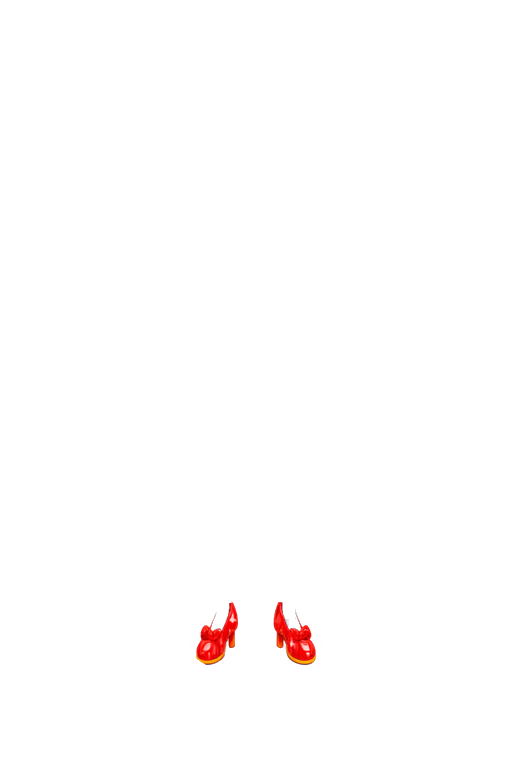
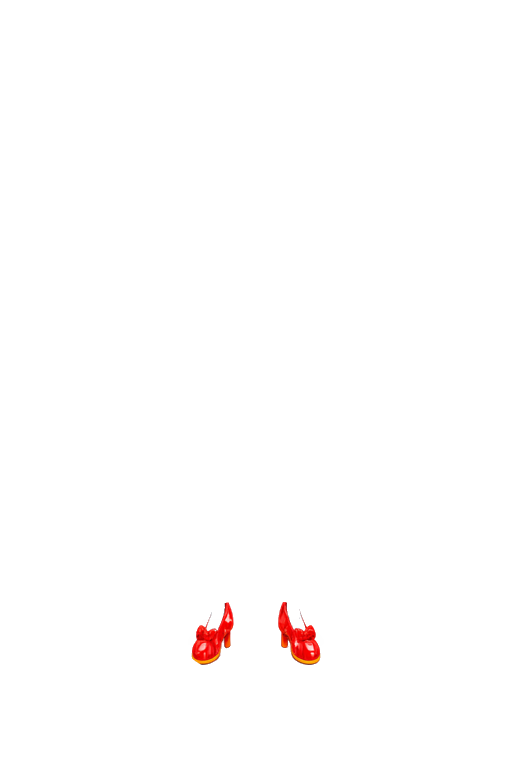
Opdater prøv-udgaven: skoene tilpasset fødderne

Changed region(s): [[0.5312, 0.7812, 0.625, 0.875], [0.375, 0.7812, 0.4688, 0.875]]

diff --git a/precache-manifest.js b/precache-manifest.js
@@ -1,2 +1,2 @@
-self.MINIMIG_VERSION = 'F862A0FE1EE25016';
+self.MINIMIG_VERSION = '8C882A4811AF37CB';
 self.MINIMIG_FILES = ["billeder/figur.png","billeder/ikon-180.png","billeder/ikon-192.png","billeder/ikon-512.png","index.html","manifest.webmanifest","privatliv/index.html","proev/baggrund/dansesal.jpg","proev/baggrund/fodboldbane.jpg","proev/baggrund/gymnastiksal.jpg","proev/baggrund/havbund.jpg","proev/baggrund/have.jpg","proev/baggrund/ridderborg.jpg","proev/baggrund/rummet.jpg","proev/baggrund/skov.jpg","proev/baggrund/slikland.jpg","proev/baggrund/slot.jpg","proev/baggrund/strand.jpg","proev/baggrund/vinter.jpg","proev/dele/briller-firkant.png","proev/dele/briller-hjerte.png","proev/dele/briller-runde.png","proev/dele/briller-ski.png","proev/dele/briller-sol.png","proev/dele/briller-stjerne.png","proev/dele/bryn-hoeje.png","proev/dele/bryn-ingen.png","proev/dele/bryn-sure.png","proev/dele/bryn-triste.png","proev/dele/bryn-tykke.png","proev/dele/bryn-tynde.png","proev/dele/bukser-fodbold.png","proev/dele/bukser-lange.png","proev/dele/grund.png","proev/dele/grund-dans.png","proev/dele/grund-hofter.png","proev/dele/grund-hurra.png","proev/dele/grund-vink.png","proev/dele/hand-ballon.png","proev/dele/hand-bamse.png","proev/dele/hand-blomst.png","proev/dele/hand-bold.png","proev/dele/hand-is.png","proev/dele/hand-tryllestav.png","proev/dele/hat-blomst.png","proev/dele/hat-enhjoerning.png","proev/dele/hat-festhat.png","proev/dele/hat-hovedtelefoner.png","proev/dele/hat-kaninoerer.png","proev/dele/hat-kasket.png","proev/dele/hat-krone.png","proev/dele/hat-sloejfe.png","proev/dele/hat-tiara.png","proev/dele/haar-bob.png","proev/dele/haar-fletninger.png","proev/dele/haar-kort.png","proev/dele/haar-kroeller.png","proev/dele/kjole-fest.png","proev/dele/kjole-fest-dans.png","proev/dele/kjole-fest-hofter.png","proev/dele/kjole-fest-hurra.png","proev/dele/kjole-fest-vink.png","proev/dele/kjole-galla.png","proev/dele/kjole-galla-dans.png","proev/dele/kjole-galla-hofter.png","proev/dele/kjole-galla-hurra.png","proev/dele/kjole-galla-vink.png","proev/dele/kjole-havfrue.png","proev/dele/kjole-havfrue-dans.png","proev/dele/kjole-havfrue-hofter.png","proev/dele/kjole-havfrue-hurra.png","proev/dele/kjole-havfrue-vink.png","proev/dele/kjole-prinsesse.png","proev/dele/kjole-prinsesse-dans.png","proev/dele/kjole-prinsesse-hofter.png","proev/dele/kjole-prinsesse-hurra.png","proev/dele/kjole-prinsesse-vink.png","proev/dele/kjole-sommer.png","proev/dele/kjole-sommer-dans.png","proev/dele/kjole-sommer-hofter.png","proev/dele/kjole-sommer-hurra.png","proev/dele/kjole-sommer-vink.png","proev/dele/kjole-tyl.png","proev/dele/kjole-tyl-dans.png","proev/dele/kjole-tyl-hofter.png","proev/dele/kjole-tyl-hurra.png","proev/dele/kjole-tyl-vink.png","proev/dele/laar-bare.png","proev/dele/laar-bare2.png","proev/dele/mund-grin.png","proev/dele/mund-kys.png","proev/dele/mund-neutral.png","proev/dele/mund-o.png","proev/dele/mund-trist.png","proev/dele/mund-tunge.png","proev/dele/naese-bred.png","proev/dele/naese-dyr.png","proev/dele/naese-klovn.png","proev/dele/naese-lang.png","proev/dele/naese-lille.png","proev/dele/oejne-blink.png","proev/dele/oejne-glad.png","proev/dele/oejne-hjerte.png","proev/dele/oejne-stjerne.png","proev/dele/oejne-store.png","proev/dele/oejne-vipper.png","proev/dele/oerer-alfe.png","proev/dele/oerer-smaa.png","proev/dele/oerer-store.png","proev/dele/oerer-udstaaende.png","proev/dele/sko-ballet.png","proev/dele/sko-fodbold.png","proev/dele/sko-glas.png","proev/dele/sko-sneakers.png","proev/dele/ting-boejle.png","proev/dele/ting-fodbold.png","proev/dele/troeje-ballet.png","proev/dele/troeje-ballet-dans.png","proev/dele/troeje-ballet-hofter.png","proev/dele/troeje-ballet-hurra.png","proev/dele/troeje-ballet-vink.png","proev/dele/troeje-fodbold.png","proev/dele/troeje-fodbold-dans.png","proev/dele/troeje-fodbold-hofter.png","proev/dele/troeje-fodbold-hurra.png","proev/dele/troeje-fodbold-inde.png","proev/dele/troeje-fodbold-inde-dans.png","proev/dele/troeje-fodbold-inde-hofter.png","proev/dele/troeje-fodbold-inde-hurra.png","proev/dele/troeje-fodbold-inde-vink.png","proev/dele/troeje-fodbold-vink.png","proev/dele/troeje-gymnastik.png","proev/dele/troeje-gymnastik-dans.png","proev/dele/troeje-gymnastik-hofter.png","proev/dele/troeje-gymnastik-hurra.png","proev/dele/troeje-gymnastik-vink.png","proev/dele/troeje-haette.png","proev/dele/troeje-haette-dans.png","proev/dele/troeje-haette-hofter.png","proev/dele/troeje-haette-hurra.png","proev/dele/troeje-haette-vink.png","proev/dele/troeje-tshirt.png","proev/dele/troeje-tshirt-dans.png","proev/dele/troeje-tshirt-hofter.png","proev/dele/troeje-tshirt-hurra.png","proev/dele/troeje-tshirt-vink.png","proev/ikoner/baggrund.png","proev/ikoner/briller.png","proev/ikoner/bryn.png","proev/ikoner/bukser.png","proev/ikoner/gymnastik.png","proev/ikoner/haender.png","proev/ikoner/hat.png","proev/ikoner/hud.png","proev/ikoner/haar.png","proev/ikoner/kinder.png","proev/ikoner/kjoler.png","proev/ikoner/mund.png","proev/ikoner/naese.png","proev/ikoner/navn.png","proev/ikoner/oejne.png","proev/ikoner/oerer.png","proev/ikoner/sko.png","proev/ikoner/sport.png","proev/ikoner/stilling.png","proev/ikoner/ting.png","proev/ikoner/troeje.png","proev/index.html","pwa.css","pwa.js","style.css","support/index.html","til-foraeldre/index.html"];

diff --git a/proev/index.html b/proev/index.html
@@ -307,7 +307,7 @@ function load(name, tries = 4) {
     im.onload = () => ok([name, im]);
     im.onerror = () => tries > 1 ? setTimeout(() => load(name, tries - 1).then(ok), 700) : ok([name, null]);
     im.src = 'dele/' + name + '.png?v=' + PICS_V + (tries < 4 ? '-' + tries : ''); }); }
-const PICS_V = 65; // raised when pictures change, so phones and browsers fetch the new ones instead of old copies
+const PICS_V = 67; // raised when pictures change, so phones and browsers fetch the new ones instead of old copies
 
 // per part: which pixels take the chosen colour (coloured ones; on shoes not the white soles) and their middle brightness
 function prepare(name, im) {
